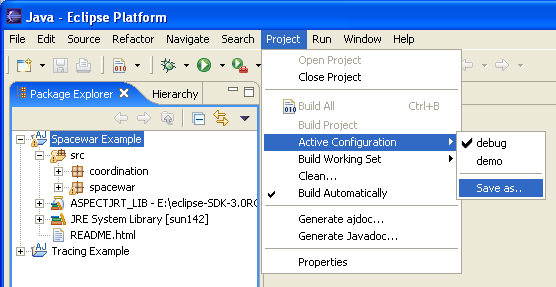
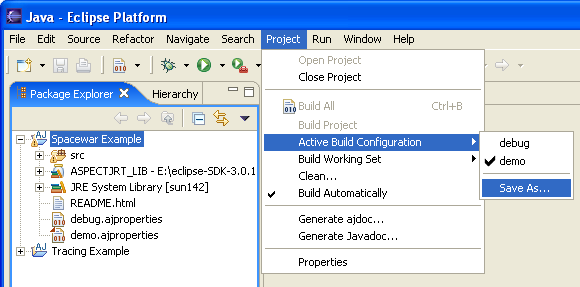
change capitalisation to comply with eclipse guidelines

diff --git a/org.eclipse.ajdt.ui/doc/AJDTug/ajdt-newbuildconfigs.html b/org.eclipse.ajdt.ui/doc/AJDTug/ajdt-newbuildconfigs.html
@@ -283,14 +283,14 @@ build configurations<o:p></o:p></span></h3>
 used the above include and exclude actions to define a useful build
 configuration, you may want to preserve this in a new build configuration. You
 can do this via the <b style='mso-bidi-font-weight:normal'>Project &gt; Active
-Configuration &gt; Save as...</b> menu option, as shown below.<o:p></o:p></span></p>
+Build Configuration &gt; Save As...</b> menu option, as shown below.<o:p></o:p></span></p>
 
 <p class=MsoNormal><span lang=EN-GB style='mso-ansi-language:EN-GB'><o:p>&nbsp;</o:p></span></p>
 
 <p class=MsoNormal><span lang=EN-GB style='mso-ansi-language:EN-GB'><!--[if gte vml 1]><v:shape
- id="_x0000_i1027" type="#_x0000_t75" style='width:417pt;height:215.25pt'>
+ id="_x0000_i1027" type="#_x0000_t75" style='width:580;height:287'>
  <v:imagedata src="ajdt-newbuildconfigs_files/saveas.png" o:title="saveas"/>
-</v:shape><![endif]--><![if !vml]><img border=0 width=556 height=287
+</v:shape><![endif]--><![if !vml]><img border=0 width=580 height=287
 src="ajdt-newbuildconfigs_files/saveas.png" v:shapes="_x0000_i1027"><![endif]><o:p></o:p></span></p>
 
 <p class=MsoNormal><span lang=EN-GB style='mso-ansi-language:EN-GB'><o:p>&nbsp;</o:p></span></p>
@@ -328,11 +328,11 @@ There are several ones of doing this:<o:p></o:p></span></p>
  <li class=MsoNormal style='mso-list:l1 level1 lfo3;tab-stops:list 36.0pt'><span
      lang=EN-GB style='mso-ansi-language:EN-GB'>By right-clicking on a build
      configuration file in the Package Explorer and selecting <b
-     style='mso-bidi-font-weight:normal'>Activate this configuration.</b><o:p></o:p></span></li>
+     style='mso-bidi-font-weight:normal'>Activate Build Configuration.</b><o:p></o:p></span></li>
  <li class=MsoNormal style='mso-list:l1 level1 lfo3;tab-stops:list 36.0pt'><span
      lang=EN-GB style='mso-ansi-language:EN-GB'>By selecting from the list of
      configurations in the <b style='mso-bidi-font-weight:normal'>Project &gt;
-     Active Configuration</b> menu.<o:p></o:p></span></li>
+     Active Build Configuration</b> menu.<o:p></o:p></span></li>
  <li class=MsoNormal style='mso-list:l1 level1 lfo3;tab-stops:list 36.0pt'><span
      lang=EN-GB style='mso-ansi-language:EN-GB'>By selecting from the list of
      configurations in the drop-down of the <b style='mso-bidi-font-weight:

diff --git a/org.eclipse.ajdt.ui/faq.html b/org.eclipse.ajdt.ui/faq.html
@@ -3,7 +3,7 @@
    <title>Frequently Asked Questions about AJDT</title>
 </head>
 <body bgcolor="white" text="black" link="#0000FF" vlink="#840084" alink="#0000FF"><div class="article"><div class="titlepage"><div><h2 class="title"><a name="d0e3"></a>Frequently Asked Questions about AJDT</h2></div><hr></div>
-<p>Last updated on 30th June 2004.
+<p>Last updated on 8th October 2004.
 </p>
 
 <div class="qandaset">
@@ -205,10 +205,13 @@
 	<pre>
   org.eclipse.ajdt
 	|
-	|--> AJDT_30M9_src
-		|--> org.eclipse.ajdt
+	|--> AJDT1.2src
+	    |--> org.aspectj.ajde
+	    |--> org.aspectj.runtime
+		|--> org.eclipse.ajdt.core
 		|--> org.eclipse.ajdt.examples
-		|--> org.aspectj.ajde
+		|--> org.eclipse.ajdt.test
+		|--> org.eclipse.ajdt.ui
 		|--> org.eclipse.aspectj
 		|--> org.eclipse.aspectj.feature
 		|--> org.eclipse.contribution.visualiser
@@ -238,7 +241,7 @@
 		<li>Connection type = pserver
 		<li>Click "Finish"
 		</ul><p></p>
-	<li>Use the CVS Repositories view to navigate to org.eclipse.ajdt/AJDT_30M9_src. Select all the folders
+	<li>Use the CVS Repositories view to navigate to org.eclipse.ajdt/AJDT1.2src. Select all the folders
 	in that directory apart from "Update Site". From the context (right mouse button) menu select
 	"Check out".
 	Eclipse will build the projects as you import them, so you're ready to run the plugins
